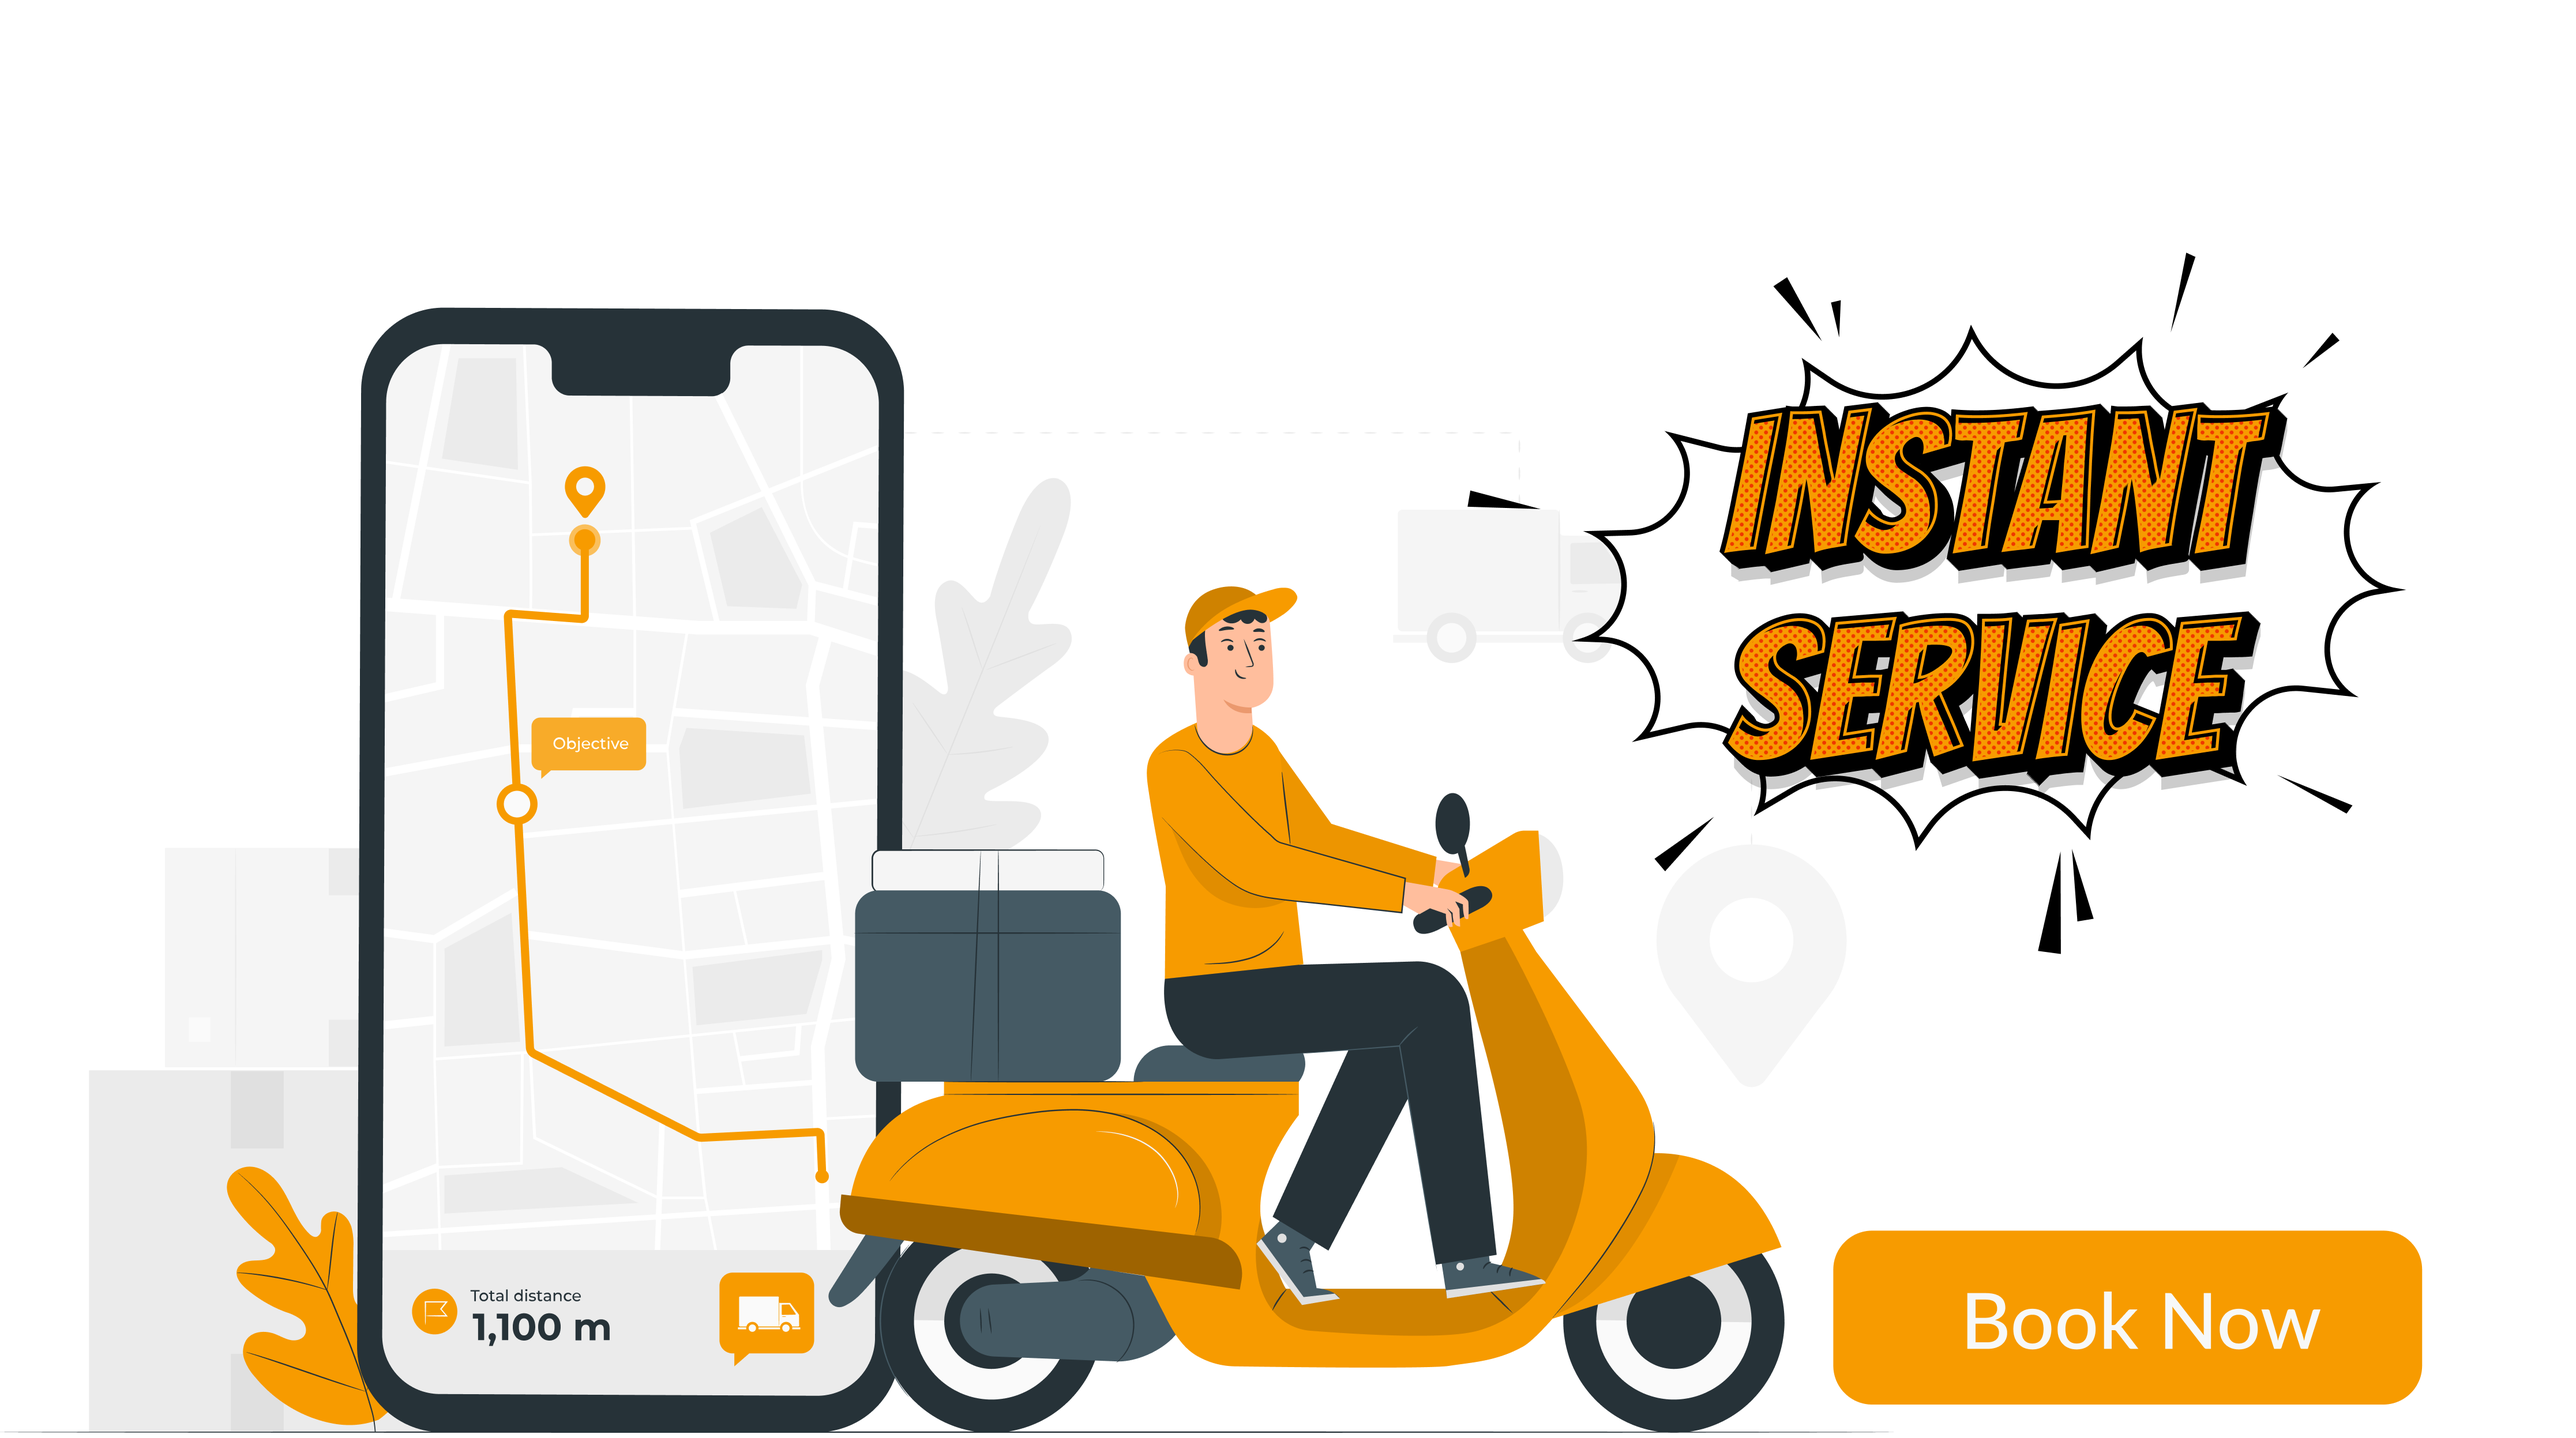
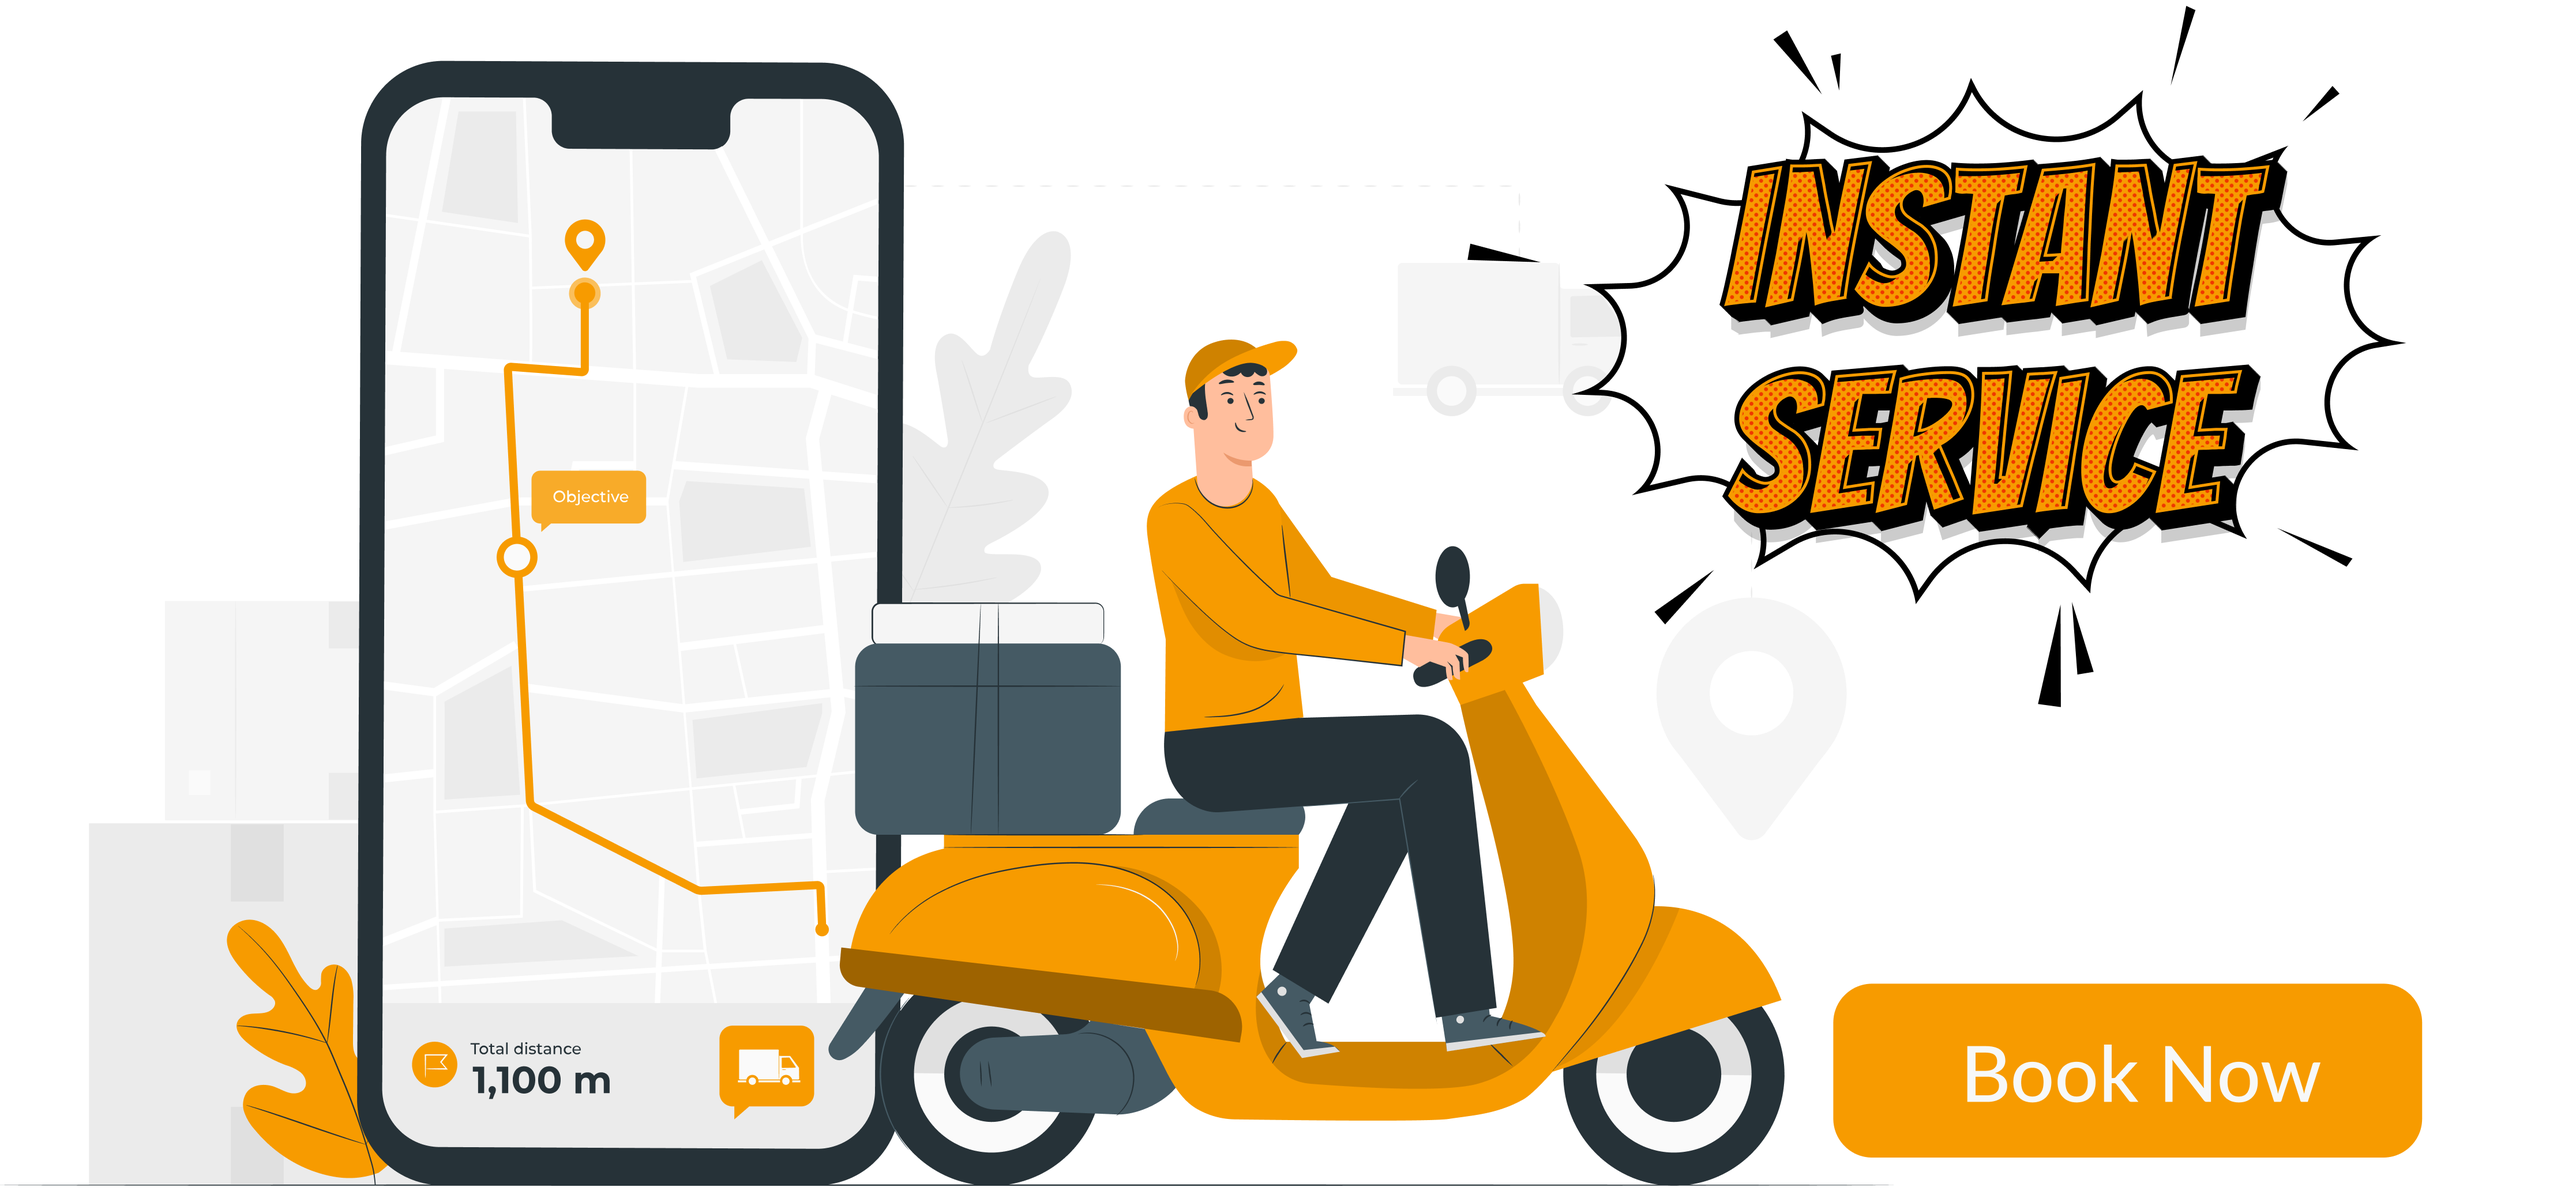
modified service section in homepage

diff --git a/src/modules/ClientPages/Home/Mobile/mobHome.jsx b/src/modules/ClientPages/Home/Mobile/mobHome.jsx
@@ -230,7 +230,7 @@ const MobHome = () => {
           display: "flex",
           justifyContent: "space-between",
           alignItems: "center",
-          mt: 2,
+          m: 0,
           px: 2,
         }}
       >
@@ -414,7 +414,7 @@ const MobHome = () => {
       </Grid> */}
 
       <Grid container justifyContent="center">
-        <Grid sx={{ mb: 3, px: 1 }}>
+        <Grid sx={{ my: 2.5, px: 1 }}>
           <Box component="img" src={InstantService} alt="Sample" onClick={() => navigate("/mobile-Urgent-ServiceRequest")} sx={{
             width: "100%", height: "auto", objectFit: "cover",
             borderRadius: 1, cursor: "pointer",
